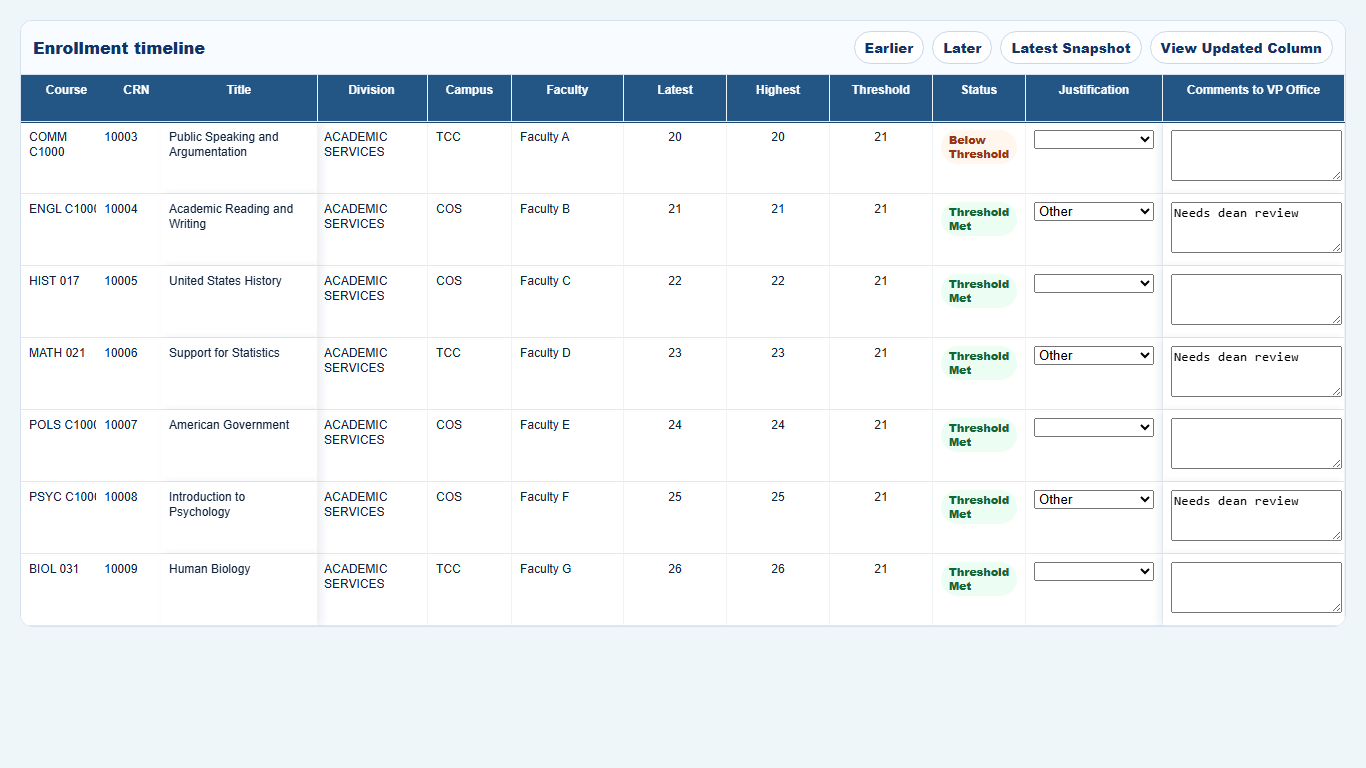
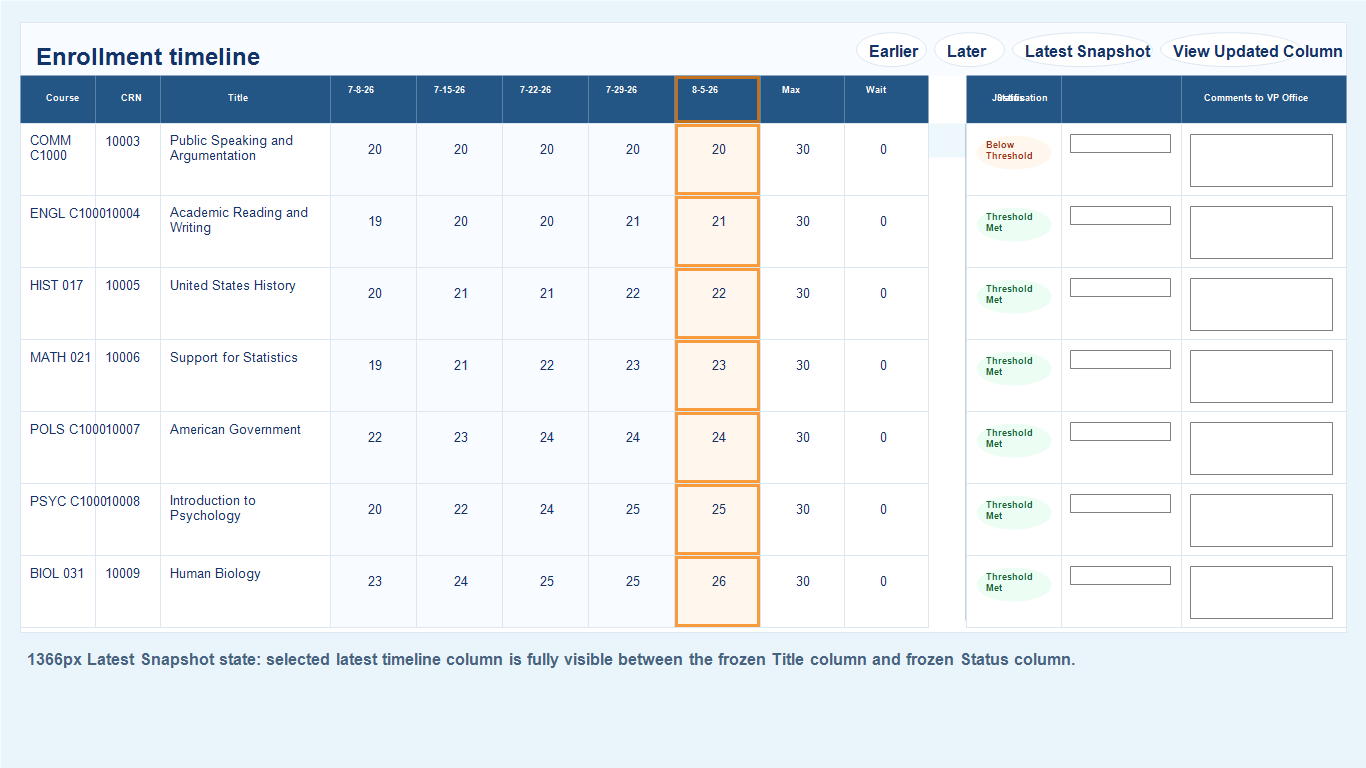
Fix low enrollment timeline frozen-pane navigation

diff --git a/js/low-enrollment-tracker.js b/js/low-enrollment-tracker.js
@@ -39,7 +39,10 @@
     vpComments: ['comments to vps office', 'comments to vp office', 'comments to vp', 'vp comments']
   });
 
+  const TIMELINE_EDGE_PADDING_PX = 8;
+
   let mounted = null;
+  let lowEnrollmentResizeHandler = null;
 
   function normalizeHeader(value) {
     return String(value || '')
@@ -68,6 +71,62 @@
 
   function cleanString(value) {
     return String(value ?? '').replace(/\s+/g, ' ').trim();
+  }
+
+  function finiteNumber(value, fallback = 0) {
+    const number = Number(value);
+    return Number.isFinite(number) ? number : fallback;
+  }
+
+  function calculateTimelineScrollLimits({
+    firstColumnLeft = 0,
+    lastColumnRight = 0,
+    viewportWidth = 0,
+    scrollWidth = 0,
+    frozenLeftWidth = 0,
+    frozenRightWidth = 0,
+    padding = TIMELINE_EDGE_PADDING_PX
+  } = {}) {
+    const clientWidth = Math.max(0, finiteNumber(viewportWidth));
+    const contentWidth = Math.max(clientWidth, finiteNumber(scrollWidth, clientWidth));
+    const physicalMax = Math.max(0, contentWidth - clientWidth);
+    const earliest = finiteNumber(firstColumnLeft) - finiteNumber(frozenLeftWidth) - finiteNumber(padding);
+    const latest = finiteNumber(lastColumnRight) - clientWidth + finiteNumber(frozenRightWidth) + finiteNumber(padding);
+    const minScrollLeft = Math.min(physicalMax, Math.max(0, earliest));
+    const maxScrollLeft = Math.min(physicalMax, Math.max(minScrollLeft, latest));
+    return { minScrollLeft, maxScrollLeft };
+  }
+
+  function calculateTimelineNavigationScroll({
+    currentScrollLeft = 0,
+    viewportWidth = 0,
+    scrollWidth = 0,
+    frozenLeftWidth = 0,
+    frozenRightWidth = 0,
+    targetLeft = 0,
+    targetRight = 0,
+    minScrollLeft = 0,
+    maxScrollLeft,
+    padding = TIMELINE_EDGE_PADDING_PX
+  } = {}) {
+    const current = Math.max(0, finiteNumber(currentScrollLeft));
+    const clientWidth = Math.max(0, finiteNumber(viewportWidth));
+    const contentWidth = Math.max(clientWidth, finiteNumber(scrollWidth, clientWidth));
+    const physicalMax = Math.max(0, contentWidth - clientWidth);
+    const min = Math.max(0, finiteNumber(minScrollLeft));
+    const max = Math.max(min, maxScrollLeft === undefined ? physicalMax : Math.min(physicalMax, finiteNumber(maxScrollLeft, physicalMax)));
+    const leftPane = Math.max(0, finiteNumber(frozenLeftWidth));
+    const rightPane = Math.max(0, finiteNumber(frozenRightWidth));
+    const edgePadding = Math.max(0, finiteNumber(padding));
+    const visibleLeft = current + leftPane + edgePadding;
+    const visibleRight = current + clientWidth - rightPane - edgePadding;
+    let next = current;
+    if (finiteNumber(targetLeft) < visibleLeft) {
+      next = finiteNumber(targetLeft) - leftPane - edgePadding;
+    } else if (finiteNumber(targetRight) > visibleRight) {
+      next = finiteNumber(targetRight) - clientWidth + rightPane + edgePadding;
+    }
+    return Math.min(max, Math.max(min, next));
   }
 
   function localDateInputValue(date = new Date()) {
@@ -1096,6 +1155,82 @@
     injectLowEnrollmentStyles();
   }
 
+  function measuredFrozenTimelineWidths(scroller) {
+    if (!scroller?.getBoundingClientRect) return { frozenLeftWidth: 0, frozenRightWidth: 0 };
+    const scrollerRect = scroller.getBoundingClientRect();
+    const leftCells = Array.from(scroller.querySelectorAll('thead .sticky-left'));
+    const rightCells = Array.from(scroller.querySelectorAll('thead .sticky-right'));
+    const frozenLeftWidth = leftCells.reduce((max, cell) => {
+      const rect = cell.getBoundingClientRect();
+      return Math.max(max, rect.right - scrollerRect.left);
+    }, 0);
+    const frozenRightWidth = rightCells.reduce((max, cell) => {
+      const rect = cell.getBoundingClientRect();
+      return Math.max(max, scrollerRect.right - rect.left);
+    }, 0);
+    return {
+      frozenLeftWidth: Math.max(0, frozenLeftWidth),
+      frozenRightWidth: Math.max(0, frozenRightWidth)
+    };
+  }
+
+  function timelineColumnMetrics(scroller) {
+    return Array.from(scroller?.querySelectorAll('thead [data-timeline-column="true"]') || [])
+      .map(cell => ({
+        cell,
+        left: finiteNumber(cell.offsetLeft),
+        right: finiteNumber(cell.offsetLeft) + finiteNumber(cell.offsetWidth)
+      }));
+  }
+
+  function scrollLowEnrollmentTimeline(scroller, action, options = {}) {
+    const columns = timelineColumnMetrics(scroller);
+    if (!scroller || !columns.length) return;
+    const first = columns[0];
+    const last = columns[columns.length - 1];
+    const frozen = measuredFrozenTimelineWidths(scroller);
+    const limits = calculateTimelineScrollLimits({
+      firstColumnLeft: first.left,
+      lastColumnRight: last.right,
+      viewportWidth: scroller.clientWidth,
+      scrollWidth: scroller.scrollWidth,
+      frozenLeftWidth: frozen.frozenLeftWidth,
+      frozenRightWidth: frozen.frozenRightWidth
+    });
+    const visibleLeft = finiteNumber(scroller.scrollLeft) + frozen.frozenLeftWidth + TIMELINE_EDGE_PADDING_PX;
+    const visibleRight = finiteNumber(scroller.scrollLeft) + finiteNumber(scroller.clientWidth) - frozen.frozenRightWidth - TIMELINE_EDGE_PADDING_PX;
+    let target = null;
+    if (action === 'latest') target = last;
+    if (action === 'updated') target = columns.find(column => column.cell.dataset.updatedColumn === 'true') || last;
+    if (action === 'later') target = columns.find(column => column.right > visibleRight + 1) || last;
+    if (action === 'earlier') target = columns.slice().reverse().find(column => column.left < visibleLeft - 1) || first;
+    if (!target) return;
+    const nextScrollLeft = calculateTimelineNavigationScroll({
+      currentScrollLeft: scroller.scrollLeft,
+      viewportWidth: scroller.clientWidth,
+      scrollWidth: scroller.scrollWidth,
+      frozenLeftWidth: frozen.frozenLeftWidth,
+      frozenRightWidth: frozen.frozenRightWidth,
+      targetLeft: target.left,
+      targetRight: target.right,
+      minScrollLeft: limits.minScrollLeft,
+      maxScrollLeft: limits.maxScrollLeft
+    });
+    if (typeof scroller.scrollTo === 'function') {
+      scroller.scrollTo({ left: nextScrollLeft, behavior: options.behavior || 'smooth' });
+    } else {
+      scroller.scrollLeft = nextScrollLeft;
+    }
+    scroller.dataset.timelineFocusedAction = action;
+  }
+
+  function recalculateLowEnrollmentTimelineNavigation() {
+    const scroller = mounted?.container?.querySelector('#lowEnrollmentTimelineScroller');
+    const action = scroller?.dataset?.timelineFocusedAction;
+    if (!scroller || !['latest', 'updated'].includes(action)) return;
+    scrollLowEnrollmentTimeline(scroller, action, { behavior: 'auto' });
+  }
+
   function setStatus(message) {
     const node = mounted?.container?.querySelector('#lowEnrollmentSaveStatus');
     if (node) node.textContent = message;
@@ -1372,22 +1507,7 @@
     container.querySelectorAll('[data-timeline-nav]')?.forEach(button => {
       button.addEventListener('click', () => {
         const scroller = container.querySelector('#lowEnrollmentTimelineScroller');
-        if (!scroller) return;
-        const timelineCells = Array.from(scroller.querySelectorAll('thead [data-timeline-column="true"]'));
-        const first = timelineCells[0];
-        const last = timelineCells[timelineCells.length - 1];
-        if (!first || !last) return;
-        const min = first.offsetLeft;
-        const max = Math.max(min, last.offsetLeft + last.offsetWidth - scroller.clientWidth);
-        const clamp = value => Math.min(max, Math.max(min, value));
-        const action = button.dataset.timelineNav;
-        if (action === 'earlier') scroller.scrollLeft = clamp(scroller.scrollLeft - 600);
-        if (action === 'later') scroller.scrollLeft = clamp(scroller.scrollLeft + 600);
-        if (action === 'latest') scroller.scrollLeft = max;
-        if (action === 'updated') {
-          const updated = scroller.querySelector('thead [data-updated-column="true"]');
-          scroller.scrollLeft = updated ? clamp(updated.offsetLeft - 120) : max;
-        }
+        scrollLowEnrollmentTimeline(scroller, button.dataset.timelineNav);
       });
     });
     container.querySelectorAll('[data-status-card]')?.forEach(button => {
@@ -1499,16 +1619,16 @@
       .low-enrollment-timeline-nav span{margin-right:auto;font-weight:900;color:#123367}
       .low-enrollment-timeline-nav button{border:1px solid #c8d8e8;border-radius:999px;background:#fff;color:#123367;font-weight:900;padding:6px 10px;cursor:pointer}
       .low-enrollment-table-wrap{max-height:680px;overflow:auto}
-      .low-enrollment-table{min-width:2100px;width:max-content;border-collapse:separate;border-spacing:0;table-layout:fixed}
-      .low-enrollment-table .col-course{width:75px}
-      .low-enrollment-table .col-crn{width:65px}
-      .low-enrollment-table .col-title{width:140px}
+      .low-enrollment-table{--low-enrollment-course-width:75px;--low-enrollment-crn-width:65px;--low-enrollment-title-width:140px;--low-enrollment-status-width:75px;--low-enrollment-justification-width:120px;--low-enrollment-comments-width:165px;min-width:2100px;width:max-content;border-collapse:separate;border-spacing:0;table-layout:fixed}
+      .low-enrollment-table .col-course{width:var(--low-enrollment-course-width)}
+      .low-enrollment-table .col-crn{width:var(--low-enrollment-crn-width)}
+      .low-enrollment-table .col-title{width:var(--low-enrollment-title-width)}
       .low-enrollment-table .col-timeline{width:78px}
       .low-enrollment-table .col-narrow{width:84px}
       .low-enrollment-table .col-medium{width:112px}
-      .low-enrollment-table .col-status{width:75px}
-      .low-enrollment-table .col-justification{width:120px}
-      .low-enrollment-table .col-comments{width:165px}
+      .low-enrollment-table .col-status{width:var(--low-enrollment-status-width)}
+      .low-enrollment-table .col-justification{width:var(--low-enrollment-justification-width)}
+      .low-enrollment-table .col-comments{width:var(--low-enrollment-comments-width)}
       .low-enrollment-table th{position:sticky;top:0;z-index:3;background:#245685;color:#fff;box-shadow:0 1px 0 #1d4771}
       .low-enrollment-table th,.low-enrollment-table td{padding:8px;border-bottom:1px solid #e1e8f0;border-right:1px solid #eef3f8;vertical-align:top;font-size:12px;line-height:1.25}
       .low-enrollment-table tbody tr:hover td{background:#fff7ed}
@@ -1522,12 +1642,12 @@
       .updated-column{box-shadow:inset 0 0 0 2px rgba(245,124,0,.35);background:#fff7ed}
       .sticky-left,.sticky-right{position:sticky;background:#fff;z-index:2}
       th.sticky-left,th.sticky-right{z-index:5;background:#245685}
-      .sticky-course{left:0;min-width:75px;width:75px}
-      .sticky-crn{left:75px;min-width:65px;width:65px}
-      .sticky-title{left:140px;min-width:140px;width:140px;box-shadow:4px 0 8px rgba(18,51,103,.08)}
-      .sticky-comments{right:0;min-width:165px;width:165px;box-shadow:-4px 0 8px rgba(18,51,103,.08)}
-      .sticky-justification{right:165px;min-width:120px;width:120px}
-      .sticky-status{right:285px;min-width:75px;width:75px}
+      .sticky-course{left:0;min-width:var(--low-enrollment-course-width);width:var(--low-enrollment-course-width)}
+      .sticky-crn{left:var(--low-enrollment-course-width);min-width:var(--low-enrollment-crn-width);width:var(--low-enrollment-crn-width)}
+      .sticky-title{left:calc(var(--low-enrollment-course-width) + var(--low-enrollment-crn-width));min-width:var(--low-enrollment-title-width);width:var(--low-enrollment-title-width);box-shadow:4px 0 8px rgba(18,51,103,.08)}
+      .sticky-comments{right:0;min-width:var(--low-enrollment-comments-width);width:var(--low-enrollment-comments-width);box-shadow:-4px 0 8px rgba(18,51,103,.08)}
+      .sticky-justification{right:var(--low-enrollment-comments-width);min-width:var(--low-enrollment-justification-width);width:var(--low-enrollment-justification-width)}
+      .sticky-status{right:calc(var(--low-enrollment-comments-width) + var(--low-enrollment-justification-width));min-width:var(--low-enrollment-status-width);width:var(--low-enrollment-status-width)}
       .low-enrollment-date-cell{white-space:pre-line}
       .low-enrollment-filterbar{align-items:flex-start}
       .low-enrollment-filter-menu{position:relative;min-width:170px}
@@ -1565,6 +1685,9 @@
 
   function mount(options = {}) {
     if (!options.container) return;
+    if (lowEnrollmentResizeHandler && root.removeEventListener) {
+      root.removeEventListener('resize', lowEnrollmentResizeHandler);
+    }
     mounted = {
       container: options.container,
       backendBaseUrl: options.backendBaseUrl || root.BACKEND_BASE_URL || '',
@@ -1577,6 +1700,12 @@
       snapshotDate: localDateInputValue(),
       updatedSnapshotDate: ''
     };
+    lowEnrollmentResizeHandler = () => {
+      const run = () => recalculateLowEnrollmentTimelineNavigation();
+      if (typeof root.requestAnimationFrame === 'function') root.requestAnimationFrame(run);
+      else run();
+    };
+    root.addEventListener?.('resize', lowEnrollmentResizeHandler);
     render();
     loadTerms().then(render).catch(err => setStatus(err.message || 'Low Enrollment Tracking load failed.'));
   }
@@ -1602,6 +1731,8 @@
     refreshBaselineWorkspace,
     workspaceImportPreview,
     statusForRow,
+    calculateTimelineScrollLimits,
+    calculateTimelineNavigationScroll,
     displayTermFromCode,
     extractTermCodeFromFilename,
     extractSnapshotDateFromFilename,

diff --git a/tests/low-enrollment-tracker.test.js b/tests/low-enrollment-tracker.test.js
@@ -146,7 +146,55 @@ test('low enrollment worksheet freezes only requested regions and keeps timeline
   assert.doesNotMatch(source, /sticky-right sticky-threshold/);
   assert.match(source, /data-timeline-column="true"/);
   assert.match(source, /const emptyColspan = 18 \+ timelineColumns\.length/);
+  assert.match(source, /calculateTimelineNavigationScroll/);
+  assert.match(source, /measuredFrozenTimelineWidths/);
+  assert.doesNotMatch(source, /scrollLeft \+ 600|scrollLeft - 600|offsetLeft - 120/);
   assert.doesNotMatch(source, /exportLowEnrollmentCsv|Export CSV|exportFilteredCsv/);
+});
+
+test('low enrollment timeline navigation accounts for frozen left and right panes', () => {
+  const limits = tracker.calculateTimelineScrollLimits({
+    firstColumnLeft: 280,
+    lastColumnRight: 1436,
+    viewportWidth: 1000,
+    scrollWidth: 1900,
+    frozenLeftWidth: 280,
+    frozenRightWidth: 360,
+    padding: 8
+  });
+  assert.deepEqual(limits, { minScrollLeft: 0, maxScrollLeft: 804 });
+
+  const latestScroll = tracker.calculateTimelineNavigationScroll({
+    currentScrollLeft: 0,
+    viewportWidth: 1000,
+    scrollWidth: 1900,
+    frozenLeftWidth: 280,
+    frozenRightWidth: 360,
+    targetLeft: 1350,
+    targetRight: 1436,
+    minScrollLeft: limits.minScrollLeft,
+    maxScrollLeft: limits.maxScrollLeft,
+    padding: 8
+  });
+  assert.equal(latestScroll, 804);
+  assert.ok(1350 >= latestScroll + 280 + 8);
+  assert.ok(1436 <= latestScroll + 1000 - 360 - 8);
+
+  const updatedScroll = tracker.calculateTimelineNavigationScroll({
+    currentScrollLeft: 804,
+    viewportWidth: 1000,
+    scrollWidth: 1900,
+    frozenLeftWidth: 280,
+    frozenRightWidth: 360,
+    targetLeft: 365,
+    targetRight: 451,
+    minScrollLeft: limits.minScrollLeft,
+    maxScrollLeft: limits.maxScrollLeft,
+    padding: 8
+  });
+  assert.equal(updatedScroll, 77);
+  assert.ok(365 >= updatedScroll + 280 + 8);
+  assert.ok(451 <= updatedScroll + 1000 - 360 - 8);
 });
 
 test('low enrollment missing snapshot cells render both missing class and visible text', () => {
